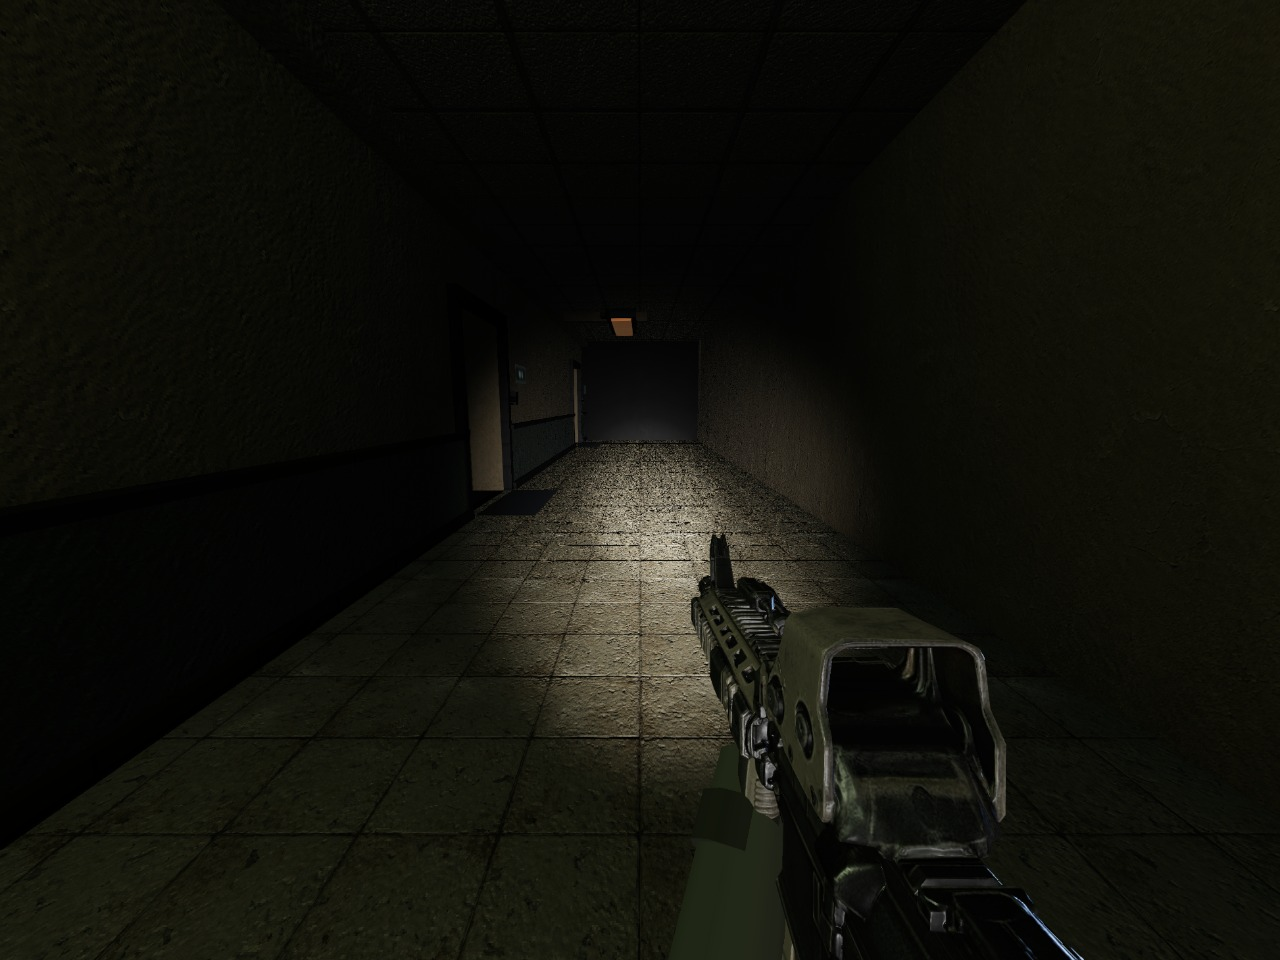
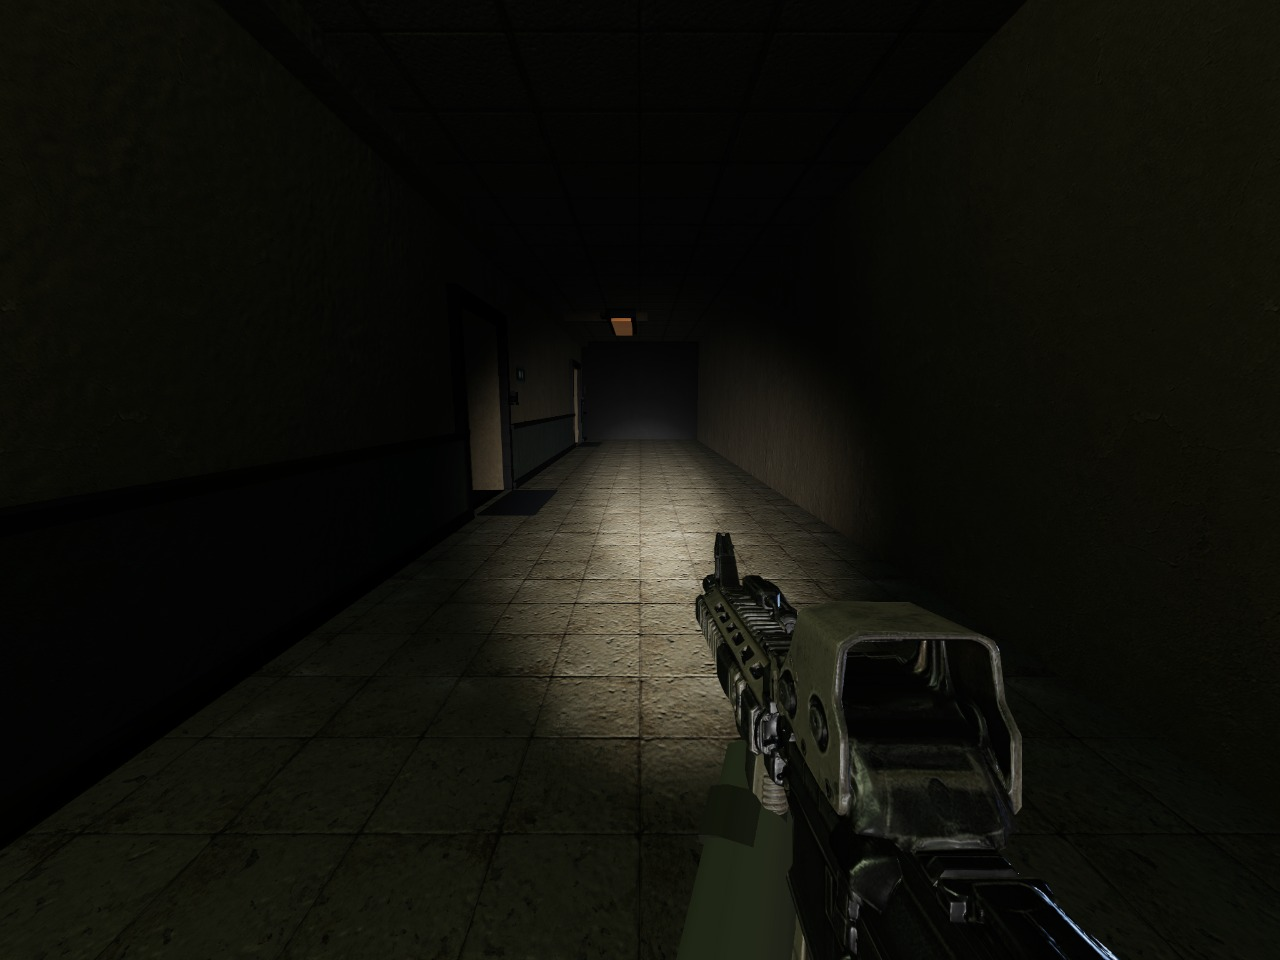
Le grain des surfaces etait un defaut de filtrage
Les murs grouillaient. Ce n'etait ni la photo ni le relief qu'on en tire :
c'etait le filtrage. Une carte de donnees arrive en echantillonnage au plus
proche et sans niveaux de reduction, et le relief comme la rugosite sont des
cartes de donnees. Etalees sur un couloir de quarante metres, elles renvoient
un texel different a chaque pixel et la surface scintille a chaque pas.

Le reglage ne pouvait pas non plus arriver apres coup, ce que je faisais :
chaque materiau travaille sur une copie de la carte, les copies sont faites au
montage du decor, et une copie ne suit que la matiere de l'original, pas son
filtrage. Les cartes naissent donc reglees, et seule leur matiere est remplacee
quand l'image arrive. Les textures peintes par le code avaient le meme defaut
depuis toujours.

Reste que le grain d'une photo n'est pas du relief : un capteur et une
compression laissent du bruit a la taille du pixel, qui donnait une normale
differente d'un pixel a l'autre. Un lissage court l'efface avant d'en tirer les
pentes, et laisse ce qu'on voulait : les joints, les eclats et les creux, qui
font plusieurs pixels de large.

Changed region(s): [[0.4062, 0.4688, 0.8125, 1.0], [0.7812, 0.9375, 0.875, 1.0]]

diff --git a/src/renderer/materials/PhotoSurfaces.ts b/src/renderer/materials/PhotoSurfaces.ts
@@ -145,9 +145,24 @@ export function photoTextures(kind: string): SurfaceTextures {
   return textures;
 }
 
+/**
+ * Carte de donnees vide, deja reglee comme elle devra l'etre.
+ *
+ * Le reglage ne peut pas attendre l'arrivee de l'image : chaque materiau
+ * travaille sur une copie de cette carte, les copies sont faites au montage du
+ * decor, et une copie ne suit que la matiere de l'original, pas son filtrage.
+ * Regler plus tard revient donc a ne regler que l'original, que personne ne
+ * dessine. Une carte de donnees arrive en echantillonnage au plus proche et
+ * sans niveaux de reduction : etalee sur un couloir, elle scintille a chaque
+ * pas, et le decor se couvre d'un grain qu'on prend pour du bruit de rendu.
+ */
 function flat(values: number[]): THREE.DataTexture {
   const texture = new THREE.DataTexture(new Uint8Array(values), 1, 1, THREE.RGBAFormat);
   texture.wrapS = texture.wrapT = THREE.RepeatWrapping;
+  texture.magFilter = THREE.LinearFilter;
+  texture.minFilter = THREE.LinearMipmapLinearFilter;
+  texture.generateMipmaps = true;
+  texture.anisotropy = 8;
   texture.needsUpdate = true;
   return texture;
 }
@@ -188,8 +203,17 @@ function derive(kind: string, texture: THREE.Texture): void {
   const span = Math.max(0.02, high - low);
   for (let i = 0; i < height.length; i++) height[i] = (height[i] - low) / span;
 
-  entry.normalMap.dispose();
-  entry.roughnessMap.dispose();
+  /*
+   * Le grain de l'image n'est pas du relief.
+   *
+   * Une photo porte le bruit de son capteur et celui de sa compression, a la
+   * taille du pixel. Pris tel quel comme hauteur, ce bruit donne une normale
+   * differente a chaque pixel, et la surface se met a scintiller des qu'on
+   * bouge. Un lissage court l'efface et laisse ce qu'on voulait : les joints,
+   * les eclats, les creux, qui font plusieurs pixels de large.
+   */
+  blur(height, size);
+
   const strength = RELIEF[kind] ?? 2;
   const [smooth, coarse] = ROUGHNESS[kind] ?? [0.6, 0.95];
 
@@ -225,10 +249,33 @@ function derive(kind: string, texture: THREE.Texture): void {
   replace(entry.roughnessMap as THREE.DataTexture, rough, size);
 }
 
-/** Remplace le contenu d'une carte deja portee par des materiaux. */
+/** Lissage separable sur trois points, en bouclant sur les bords. */
+function blur(field: Float32Array, size: number): void {
+  const pass = new Float32Array(field.length);
+  for (let y = 0; y < size; y++) {
+    for (let x = 0; x < size; x++) {
+      const left = field[y * size + ((x - 1 + size) % size)];
+      const right = field[y * size + ((x + 1) % size)];
+      pass[y * size + x] = (left + field[y * size + x] * 2 + right) * 0.25;
+    }
+  }
+  for (let y = 0; y < size; y++) {
+    for (let x = 0; x < size; x++) {
+      const up = pass[((y - 1 + size) % size) * size + x];
+      const down = pass[((y + 1) % size) * size + x];
+      field[y * size + x] = (up + pass[y * size + x] * 2 + down) * 0.25;
+    }
+  }
+}
+
+/**
+ * Remplace le contenu d'une carte deja portee par des materiaux.
+ *
+ * La matiere d'une texture vit dans une source partagee par toutes ses
+ * copies : la changer ici suffit a ce que le decor entier la reprenne, sans
+ * avoir a retrouver qui porte quoi.
+ */
 function replace(texture: THREE.DataTexture, data: Uint8Array, size: number): void {
   texture.image = { data, width: size, height: size };
-  texture.wrapS = texture.wrapT = THREE.RepeatWrapping;
-  texture.anisotropy = 4;
   texture.needsUpdate = true;
 }

diff --git a/src/renderer/materials/Procedural.ts b/src/renderer/materials/Procedural.ts
@@ -86,10 +86,7 @@ function normalFromHeight(height: Float32Array, size: number, strength: number):
       data[index + 3] = 255;
     }
   }
-  const texture = new THREE.DataTexture(data, size, size, THREE.RGBAFormat);
-  texture.wrapS = texture.wrapT = THREE.RepeatWrapping;
-  texture.needsUpdate = true;
-  return texture;
+  return dataTexture(data, size);
 }
 
 function grayTexture(values: Float32Array, size: number): THREE.DataTexture {
@@ -101,8 +98,23 @@ function grayTexture(values: Float32Array, size: number): THREE.DataTexture {
     data[i * 4 + 2] = level;
     data[i * 4 + 3] = 255;
   }
+  return dataTexture(data, size);
+}
+
+/**
+ * Carte de donnees prete a couvrir une grande surface.
+ *
+ * Sans filtrage lineaire ni niveaux de reduction, une telle carte scintille
+ * des qu'elle est repetee et vue de loin : c'est le grain qu'on prend pour du
+ * bruit de rendu.
+ */
+function dataTexture(data: Uint8Array<ArrayBuffer>, size: number): THREE.DataTexture {
   const texture = new THREE.DataTexture(data, size, size, THREE.RGBAFormat);
   texture.wrapS = texture.wrapT = THREE.RepeatWrapping;
+  texture.magFilter = THREE.LinearFilter;
+  texture.minFilter = THREE.LinearMipmapLinearFilter;
+  texture.generateMipmaps = true;
+  texture.anisotropy = 8;
   texture.needsUpdate = true;
   return texture;
 }
